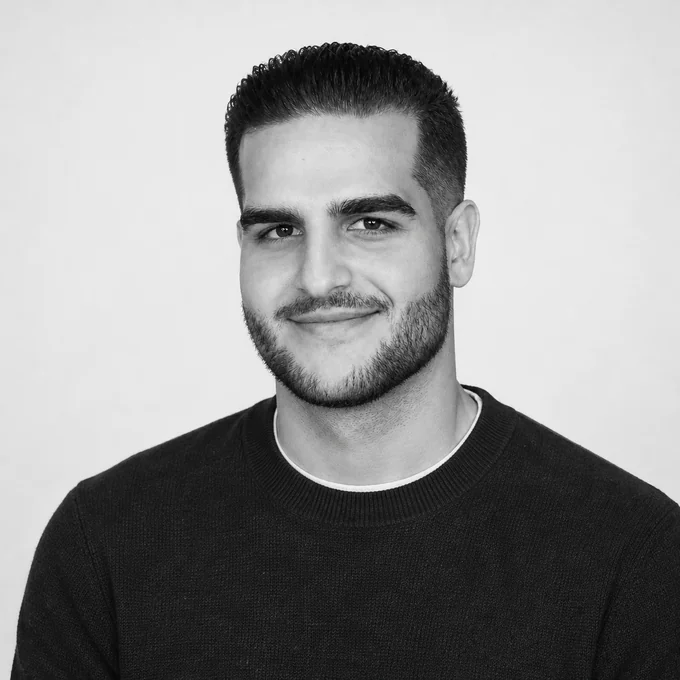
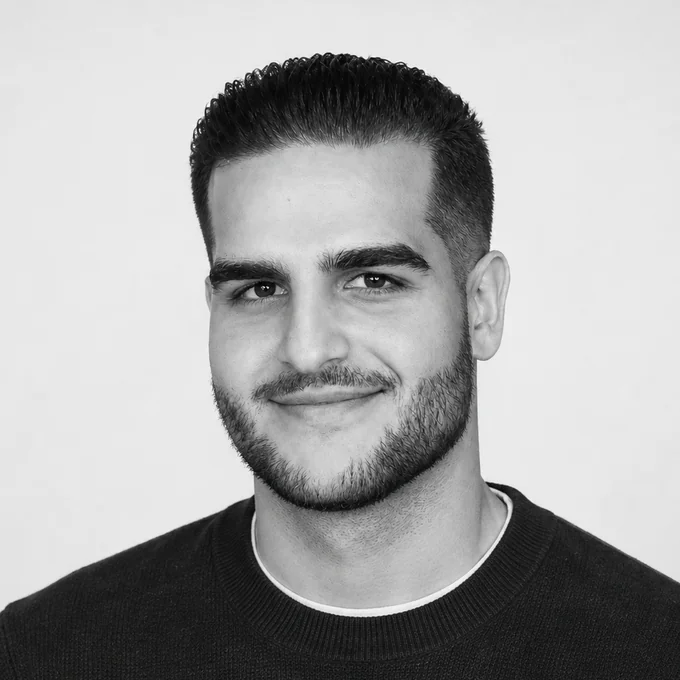
Tighten portrait crop and remove hero tagline
Crop the portrait closer to the face so it reads better in the small
mobile circle, and drop the 'Technology, AI, and thoughtful
experimentation' subtitle along with its now-unused styles.

diff --git a/src/styles.css b/src/styles.css
@@ -1846,14 +1846,6 @@ body {
   text-shadow: 0 0 28px rgba(18, 217, 255, 0.16);
 }
 
-.hero__subtitle {
-  margin: 18px 0 0;
-  color: #e8f8ff;
-  font-size: clamp(1.02rem, 1.8vw, 1.25rem);
-  font-weight: 600;
-  line-height: 1.45;
-}
-
 .hero__lede {
   max-width: 570px;
   margin: 24px 0 0;
@@ -2223,10 +2215,6 @@ body {
 
   .hero h1 {
     font-size: clamp(2.5rem, 12.5vw, 3.2rem);
-  }
-
-  .hero__subtitle {
-    font-size: 1rem;
   }
 
   .hero__actions {

diff --git a/src/components/Hero.tsx b/src/components/Hero.tsx
@@ -22,9 +22,6 @@ export function Hero() {
           <motion.h1 id="hero-title" variants={rise}>
             Midya Rahmani
           </motion.h1>
-          <motion.p className="hero__subtitle" variants={rise}>
-            Technology, AI, and thoughtful experimentation
-          </motion.p>
           <motion.p className="hero__lede" variants={rise}>
             {profile.hero}
           </motion.p>
